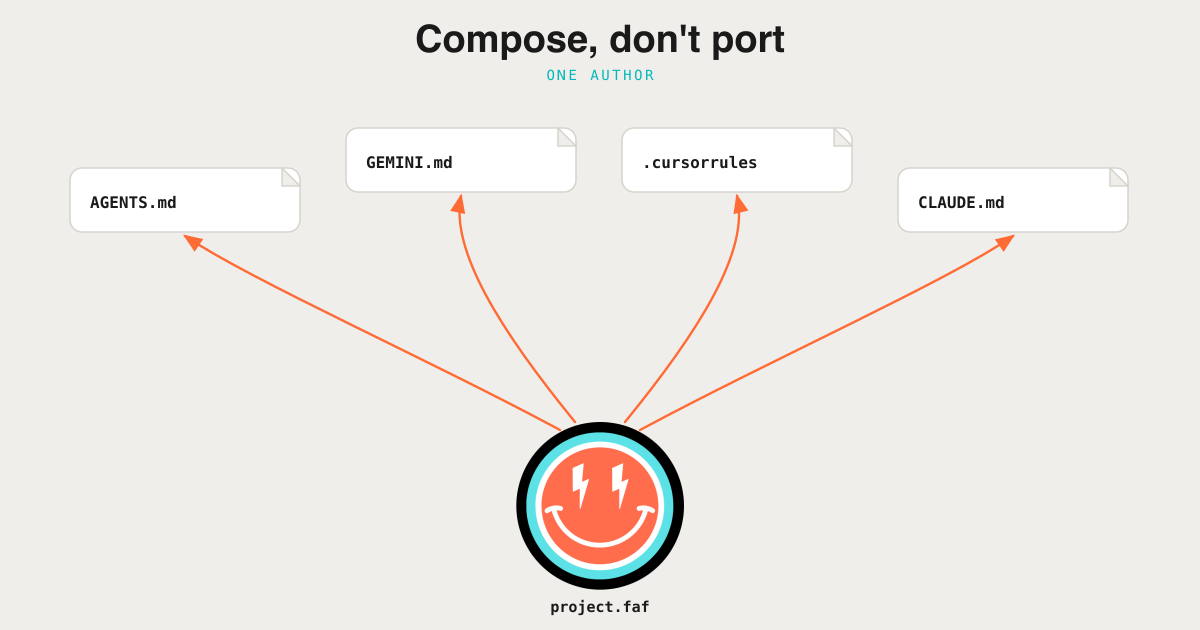
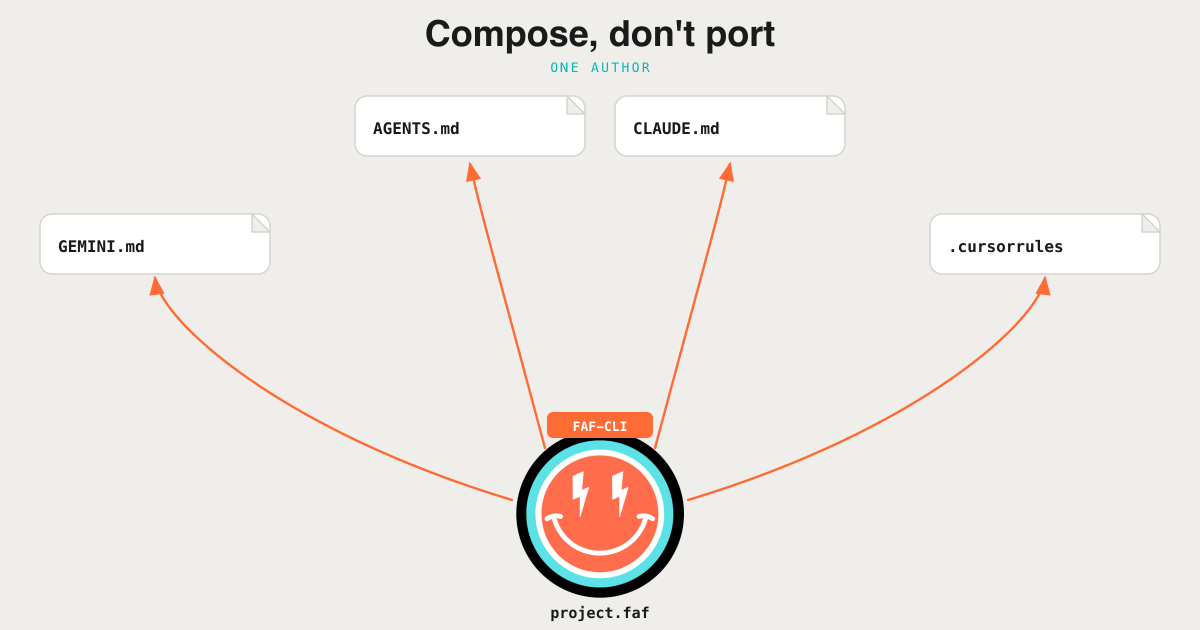
blog: compose-dont-port hero — four-row satellite
Title. AGENTS.md + CLAUDE.md under it. GEMINI.md and .cursorrules
as wings. FAF-CLI on the smiley, project.faf below.

diff --git a/src/routes/blog/compose-dont-port/+page.svelte b/src/routes/blog/compose-dont-port/+page.svelte
@@ -38,7 +38,7 @@ Comments · suggestions · shares welcome.`;
 	<meta property="og:image:height" content="630" />
 	<meta
 		property="og:image:alt"
-		content="Compose, don't port — one author: project.faf → AGENTS.md, GEMINI.md, .cursorrules, CLAUDE.md"
+		content="Compose, don't port — FAF-CLI authors AGENTS.md and CLAUDE.md; GEMINI.md and .cursorrules as wings"
 	/>
 	<meta name="twitter:card" content="summary_large_image" />
 	<meta name="twitter:site" content="@fafformat" />
@@ -51,7 +51,7 @@ Comments · suggestions · shares welcome.`;
 	<meta name="twitter:image" content="https://faf.one/blog/compose-dont-port-hero.png" />
 	<meta
 		name="twitter:image:alt"
-		content="Compose, don't port — one author: project.faf → AGENTS.md, GEMINI.md, .cursorrules, CLAUDE.md"
+		content="Compose, don't port — FAF-CLI authors AGENTS.md and CLAUDE.md; GEMINI.md and .cursorrules as wings"
 	/>
 </svelte:head>
 
@@ -72,7 +72,7 @@ Comments · suggestions · shares welcome.`;
 	<div class="hero-image">
 		<img
 			src="/blog/compose-dont-port-hero.png"
-			alt="Compose, don't port — one author: project.faf → AGENTS.md, GEMINI.md, .cursorrules, CLAUDE.md"
+			alt="Compose, don't port — FAF-CLI at the bottom authors AGENTS.md and CLAUDE.md; GEMINI.md and .cursorrules as wings"
 			width="1200"
 			height="630"
 			loading="eager"
